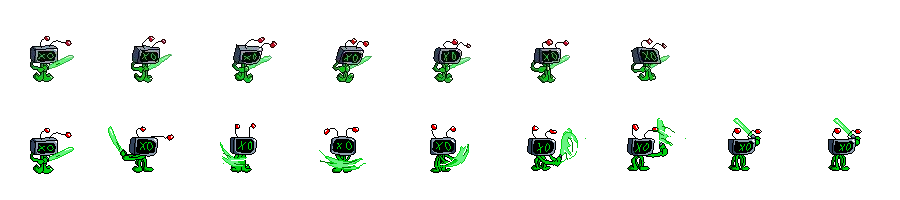
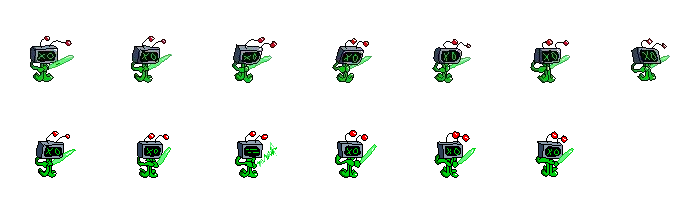
Arte nuevo: retratos, Titán, Gatoide, ataques de Aeon y Voss, caminatas, casa de tecnología y marcas de clic
- Un PNG por unidad: aeon_thraze, general_voss, francotirador, soldado_asalto,
  exo_traje_pesado (+caminando), centinela_plasma (nuevo ataque), gatoide_infectado
- titan_de_la_jungla-sheet.png (cuadros de 120x120)
- casa_tecnologia-sheet.png = Depósito de Suministros de la Coalición
- Retratos animados: Dron Constructor, Centinela, Coloso, Manipuladora
- clic_atacar.png (espada) y clic_minar.png (pico) como marcas de orden
- El neutral Depredador Veloz pasa a llamarse Gatoide Infectado

Claude-Session: https://claude.ai/code/session_016Amkj2r8VTxdDaFmM66iK8

diff --git a/juego/Aethelgard.html b/juego/Aethelgard.html
@@ -878,13 +878,14 @@ function rutaMusica(f){return rutaCon(RUTA_MUSICA,f);}
 
 const ARTE_UNIDADES={
   // — Dominio Kaelen (jugador) —
-  heroe:         {idle:{sheet:"paladin_alien-sheet.png",count:6,fps:7,drawW:100,offY:25,offX:8},
-                  walk:{sheet:"paladin_alien_caminando.png",count:9,fps:11,drawW:100,offY:19,offX:8}},   // Aeon Thraze (héroe)
+  heroe:         {idle:  {sheet:"aeon_thraze-sheet.png",fila:0,count:6,frameW:100,frameH:100,fps:7,drawW:100,offY:25,offX:8},
+                  walk:  {sheet:"aeon_thraze-sheet.png",fila:1,count:9,frameW:100,frameH:100,fps:11,drawW:100,offY:19,offX:8},
+                  attack:{sheet:"aeon_thraze-sheet.png",fila:2,count:7,frameW:100,frameH:100,fps:14,disparoEn:3,drawW:100,offY:25,offX:9}},   // (filas: quieto · caminando · atacando)   // Aeon Thraze (héroe)
   obrero:        {idle:{sheet:"obrero_png_profe.png",count:5,fps:6,drawW:84,offY:23,offX:-2},
                   work:{sheet:"obrero_trabajando_alien.png",count:10,fps:12,drawW:84,offY:21,offX:-1}},   // Dron Constructor (work = talando / reparando)
   // un PNG por unidad: cada FILA es una animación (fila:0 = la de arriba). frameW/frameH = tamaño de un cuadro.
   soldado:       {idle:  {sheet:"centinela_plasma-sheet.png",fila:0,count:7,frameW:100,frameH:100,fps:8,drawW:70,offY:3,offX:-4},
-                  attack:{sheet:"centinela_plasma-sheet.png",fila:1,count:9,frameW:100,frameH:100,fps:14,disparoEn:4,drawW:70,offY:9,offX:-4}},   // Centinela de Plasma (fila 0 quieto, fila 1 espadazo)
+                  attack:{sheet:"centinela_plasma-sheet.png",fila:1,count:6,frameW:100,frameH:100,fps:14,disparoEn:2,drawW:70,offY:6,offX:-7}},   // Centinela de Plasma (fila 0 quieto, fila 1 espadazo)
   fusilero:      {sheet:"arquero_disparador-sheet.png",count:5,fps:10,drawW:90,offY:19,offX:4},   // Emisor de Pulso (el arquero Kaelen)
   caballero:     {idle:{sheet:"coloso_blindado-sheet.png",fila:0,count:7,frameW:100,frameH:100,fps:6,drawW:76,offY:12,offX:-3},
                   walk:{sheet:"coloso_blindado-sheet.png",fila:1,count:7,frameW:100,frameH:100,fps:10,drawW:76,offY:11,offX:-2}}, // Coloso Blindado (fila 0 quieto, fila 1 caminando)
@@ -896,16 +897,20 @@ const ARTE_UNIDADES={
                   habilidad:{sheet:"manipuladora_cuantica-sheet.png",fila:2,count:5,frameW:100,frameH:100,fps:9,drawW:75,offY:14,offX:3}}, // Manipuladora Cuántica (filas: quieta · caminando · haciendo magia)
   rompehechizos: "",   // Disruptor de Escudos
   // — Coalición Terrestre (IA) —
-  heroe_enemigo:     {sheet:"astronauta_paladin-sheet.png",count:7,fps:7,drawW:96,offY:16,offX:6},   // General Voss (antes era el dibujo del Exo-traje Pesado)
+  heroe_enemigo:     {idle:  {sheet:"general_voss-sheet.png",fila:0,count:7,frameW:100,frameH:100,fps:7,drawW:96,offY:16,offX:6},
+                      attack:{sheet:"general_voss-sheet.png",fila:1,count:8,frameW:100,frameH:100,fps:14,disparoEn:4,drawW:96,offY:18,offX:8}},   // (filas: quieto · disparando)   // General Voss (antes era el dibujo del Exo-traje Pesado)
   obrero_enemigo:    {idle:{sheet:"ingeniero_campo-sheet.png",fila:0,count:3,frameW:100,frameH:100,cuadros:[0],drawW:72,offY:13,offX:4},
                       work:{sheet:"ingeniero_campo-sheet.png",fila:0,count:3,frameW:100,frameH:100,fps:6,drawW:72,offY:13,offX:4},
                       walk:{sheet:"ingeniero_campo-sheet.png",fila:1,count:8,frameW:100,frameH:100,fps:11,drawW:72,offY:13,offX:4},
                       taladro:{sheet:"ingeniero_campo-sheet.png",fila:2,count:5,frameW:100,frameH:100,fps:10,drawW:72,offY:12,offX:9}},   // Ingeniero de Campo (filas: picando/construyendo · caminando · taladrando metal)
-  enemigo_bruto:     {sheet:"astronata_combate-sheet.png",count:4,fps:6,drawW:75,offY:13,offX:-3},   // Soldado de Asalto
-  enemigo_cazador:   {idle:  {sheet:"arquero_disparando_en_png_astronauta.png",count:14,cuadros:[0],drawW:80,offY:15,offX:4},
-                      attack:{sheet:"arquero_disparando_en_png_astronauta.png",count:14,fps:16,disparoEn:7,drawW:80,offY:15,offX:4}}, // Francotirador
+  enemigo_bruto:     {idle:{sheet:"soldado_asalto-sheet.png",fila:0,count:4,frameW:100,frameH:100,fps:6,drawW:75,offY:13,offX:-3},
+                      walk:{sheet:"soldado_asalto-sheet.png",fila:1,count:15,frameW:100,frameH:100,fps:18,drawW:75,offY:12,offX:-3}},   // (filas: quieto · caminando)   // Soldado de Asalto
+  enemigo_cazador:   {idle:  {sheet:"francotirador-sheet.png",fila:0,count:14,frameW:100,frameH:100,cuadros:[0],drawW:80,offY:15,offX:4},
+                      walk:  {sheet:"francotirador-sheet.png",fila:1,count:9,frameW:100,frameH:100,fps:12,drawW:80,offY:19,offX:2},
+                      attack:{sheet:"francotirador-sheet.png",fila:0,count:14,frameW:100,frameH:100,fps:16,disparoEn:7,drawW:80,offY:15,offX:4}}, // Francotirador (filas: disparando · caminando)
   enemigo_trol:      {idle:  {sheet:"exo_traje_pesado-sheet.png",fila:0,count:6,frameW:100,frameH:100,fps:6,drawW:90,offY:19,offX:5},
-                      attack:{sheet:"exo_traje_pesado-sheet.png",fila:1,count:11,frameW:100,frameH:100,fps:15,disparoEn:8,drawW:73,offY:4,offX:-15}},  // Exo-traje Pesado (fila 0 quieto, fila 1 martillazo)
+                      attack:{sheet:"exo_traje_pesado-sheet.png",fila:1,count:11,frameW:100,frameH:100,fps:15,disparoEn:8,drawW:73,offY:4,offX:-15},
+                      walk:  {sheet:"exo_traje_pesado-sheet.png",fila:2,count:13,frameW:100,frameH:100,fps:14,drawW:90,offY:18,offX:9}},  // Exo-traje Pesado (fila 0 quieto, fila 1 martillazo)
   enemigo_mago:      {sheet:"hacker_combate-sheet.png",count:8,fps:7,drawW:72,offY:13,offX:4},   // Hacker de Combate (el mago humano astronauta)
   enemigo_bestia:    "",   // Tanque Blindado
   enemigo_asesino:   {idle:  {sheet:"comando_elite-sheet.png",fila:0,count:4,frameW:100,frameH:100,fps:6,drawW:72,offY:15,offX:6},
@@ -919,11 +924,13 @@ const ARTE_UNIDADES={
   jabali:    {idle:  {sheet:"reptante_infectado-sheet.png",fila:0,count:5,frameW:100,frameH:100,fps:6,drawW:72,offY:14,offX:3},
               walk:  {sheet:"reptante_infectado-sheet.png",fila:1,count:7,frameW:100,frameH:100,fps:10,drawW:72,offY:15,offX:-1},
               attack:{sheet:"reptante_infectado-sheet.png",fila:2,count:7,frameW:100,frameH:100,fps:14,disparoEn:3,drawW:72,offY:16,offX:2}},   // Reptante Infectado (filas: quieto · caminando · atacando)
-  lobo:      "",   // Depredador Veloz
+  lobo:      {idle:  {sheet:"gatoide_infectado-sheet.png",fila:0,count:4,frameW:100,frameH:100,fps:6,drawW:72,offY:8,offX:0},
+              walk:  {sheet:"gatoide_infectado-sheet.png",fila:1,count:6,frameW:100,frameH:100,fps:14,drawW:72,offY:8,offX:1},
+              attack:{sheet:"gatoide_infectado-sheet.png",fila:2,count:8,frameW:100,frameH:100,fps:16,disparoEn:4,drawW:72,offY:10,offX:2}},   // Gatoide Infectado (filas: quieto · corriendo · atacando)
   oso:       {idle:  {sheet:"slime_blindado-sheet.png",fila:0,count:4,frameW:100,frameH:100,fps:6,drawW:90,offY:9,offX:-1},
               walk:  {sheet:"slime_blindado-sheet.png",fila:1,count:4,frameW:100,frameH:100,fps:8,drawW:90,offY:10,offX:-5},
               attack:{sheet:"slime_blindado-sheet.png",fila:2,count:6,frameW:100,frameH:100,fps:12,disparoEn:3,drawW:90,offY:10,offX:-2}},   // Slime Blindado (filas: quieto · caminando · atacando)
-  ogro_jefe: "",   // Titán de la Jungla (mini-jefe)
+  ogro_jefe: {sheet:"titan_de_la_jungla-sheet.png",count:4,frameW:120,frameH:120,fps:5,drawW:150,offY:30,offX:-1},   // Titán de la Jungla (mini-jefe; cuadros de 120×120)
 };
 
 // Edificios: se apoyan sobre su huella. drawW por defecto = ancho de la huella.
@@ -941,7 +948,7 @@ const ARTE_ESTRUCTURAS={
   base_enemigo:     "",   // Cuartel General
   barracks_enemigo: {sheet:"castillo_para_paladines.png",count:10,fps:8,drawW:255,offY:79,offX:11},  // Academia Militar
   tower_enemigo:    "",   // Torreta de Defensa
-  farm_enemigo:     "",   // Depósito de Suministros
+  farm_enemigo:     {sheet:"casa_tecnologia-sheet.png",count:2,fps:2,drawW:112,offY:11,offX:11},   // Depósito de Suministros (la casa de tecnología, con las luces que parpadean)
   forge_enemigo:    {sheet:"fabrica_armamento-sheet.png",count:3,fps:3,drawW:209,offY:43,offX:2}, // Fábrica de Armamento (la forja de ladrillo)
   // sin usar por ahora: casa_de_jipies_magos_png_67.png (la casa verde de los magos), robot_malo.png
 };
@@ -1016,7 +1023,8 @@ const ARTE_INTERFAZ={
   clic_mover:      {sheet:"lugar_donde_ira_la_unidad.png",count:3,cuadros:[0,1,2,1],fps:10,repetir:3,drawW:125,offY:-7},   // marca en el suelo al dar una orden de mover (como las flechas verdes de WC3).
                          //   repetir:N = la tira se repite N veces (la última se desvanece). cuadros = orden de los cuadros.
                          //   Si es una tira, se reproduce UNA vez y desaparece. Ej.: {sheet:"clic-sheet.png",count:6,fps:15,drawW:48}
-  clic_atacar:     "",   // igual, para la orden de atacar (si queda vacío, usa clic_mover)
+  clic_atacar:     {sheet:"clic_atacar.png",count:3,cuadros:[0,1,2,1],fps:10,repetir:3,drawW:110,offY:-18},   // "aquí puedes atacar": la espada
+  clic_recolectar: {sheet:"clic_minar.png",count:3,cuadros:[0,1,2,1],fps:10,repetir:3,drawW:110,offY:-18},    // "selecciona dónde minarás": el pico (minas y rocas)
 };
 
 // ── PROYECTILES ── (lo que vuela desde la unidad que dispara hasta su objetivo)
@@ -1105,8 +1113,11 @@ const HUD_ZONAS={
 // Las tarjetas del grupo (cuando eliges varias unidades) usan el primer cuadro.
 const ARTE_RETRATOS={
   // ── Dominio Kaelen (tus unidades) ──
-  "Aeon Thraze":"", "Dron Constructor":"", "Centinela de Plasma":"", "Emisor de Pulso":"",
-  "Coloso Blindado":"", "Unidad de Nanoreparación":"", "Manipuladora Cuántica":"", "Disruptor de Escudos":"",
+  "Aeon Thraze":"", "Emisor de Pulso":"", "Unidad de Nanoreparación":"", "Disruptor de Escudos":"",
+  "Dron Constructor":     {sheet:"retrato_dron_constructor-sheet.png",count:4,fps:5},
+  "Centinela de Plasma":  {sheet:"retrato_centinela_plasma-sheet.png",count:4,fps:5},
+  "Coloso Blindado":      {sheet:"retrato_coloso_blindado-sheet.png",count:13,fps:9},
+  "Manipuladora Cuántica":{sheet:"retrato_manipuladora_cuantica-sheet.png",count:3,fps:4},
   // ── Dominio Kaelen (tus estructuras) ──
   "Núcleo Central":"", "Forja de Autómatas":"", "Cámara de Reconstrucción":"", "Extractor de Energía":"",
   "Laboratorio de Armamento":"", "Torreta de Plasma":"", "Generador de Soporte Vital":"", "Portal Dimensional":"",
@@ -1116,7 +1127,7 @@ const ARTE_RETRATOS={
   // ── Coalición Terrestre (estructuras de la IA) ──
   "Cuartel General":"", "Academia Militar":"", "Fábrica de Armamento":"", "Torreta de Defensa":"", "Depósito de Suministros":"",
   // ── Neutrales ──
-  "Reptante Infectado":"", "Depredador Veloz":"", "Slime Blindado":"", "Titán de la Jungla":"",
+  "Reptante Infectado":"", "Gatoide Infectado":"", "Slime Blindado":"", "Titán de la Jungla":"",
   "Puesto del Mercader Errante":"",
 };
 // ── MÚSICA ── (archivos .mp3/.ogg/.wav en la misma carpeta que este HTML)
@@ -1203,7 +1214,7 @@ const ENCICLOPEDIA_TEXTOS={
   "Depósito de Suministros":"Le permite a la Coalición tener más tropas.",
   "Fábrica de Armamento":"Investiga el armamento mejorado de la Coalición.",
   "Reptante Infectado":"Criatura nativa contaminada por la infección: ataca a todo lo que entra en su territorio.",
-  "Depredador Veloz":"Caza en manada y ataca rápido.",
+  "Gatoide Infectado":"Un felino del planeta deformado por la infección: rapidísimo, caza en manada y salta sobre su presa.",
   "Slime Blindado":"Un slime metido dentro de una armadura vieja: lento, pero con un caparazón muy duro.",
   "Titán de la Jungla":"El mini-jefe del centro del mapa. Suelta muy buen botín.",
   "Puesto del Mercader Errante":"La tienda neutral del centro: aquí el héroe compra y vende objetos.",
@@ -3566,6 +3577,7 @@ function spawnDamageText(x,y,dmg,isHero){
 }
 
 // Marca en el suelo al dar una orden. tipo = "mover" o "atacar".
+function arteDePing(p){return (p.tipo==="atacar"&&ARTE_INTERFAZ.clic_atacar)||(p.tipo==="recolectar"&&ARTE_INTERFAZ.clic_recolectar)||ARTE_INTERFAZ.clic_mover;}
 function spawnPing(x,y,tipo){
   const p=worldToIso(x,y);
   pingMarkers.push({x:p.x,y:p.y,r:0,life:1,tipo:tipo||"mover",t0:performance.now()});
@@ -3688,7 +3700,7 @@ function updateParticles(dt){
     const p=pingMarkers[i];
     p.r+=1.2;
     // con PNG la marca dura lo que dura su tira; sin PNG, el anillo se desvanece
-    const conArte=(p.tipo==="atacar"&&ARTE_INTERFAZ.clic_atacar)||ARTE_INTERFAZ.clic_mover;
+    const conArte=arteDePing(p);
     if(!conArte||!imgLista(getAnimImg(typeof conArte==="string"?conArte:conArte.sheet)))p.life-=0.04;
     if(p.life<=0||performance.now()-p.t0>4000)pingMarkers.splice(i,1);
   }
@@ -3740,7 +3752,7 @@ function drawParticles(){
   }
   ctx.globalAlpha=1;
   for(const p of pingMarkers){
-    const arte=(p.tipo==="atacar"&&ARTE_INTERFAZ.clic_atacar)||ARTE_INTERFAZ.clic_mover;
+    const arte=arteDePing(p);
     const fr=frameUnaVez(arte,p.t0);
     if(fr&&fr.terminado){p.life=0;continue;}
     if(fr){ctx.globalAlpha=fr.alpha;drawAnimFrame(fr,p.x,p.y+fr.offY,fr.drawW||48,0.5);ctx.globalAlpha=1;continue;}
@@ -3842,7 +3854,7 @@ const aiWorkers=[];
 // centro del campamento, con mucha más vida y mejor botín al morir.
 const NEUTRAL_TYPES={
   jabali:{name:"Reptante Infectado",  hp:80, damage:9, speed:1.6,radius:12,aggro:170,leash:260,cooldown:55,goldReward:15,icon:"🐗",sprite:"jabali",shape:"hex"},
-  lobo:  {name:"Depredador Veloz", hp:55, damage:12,speed:2.3,radius:11,aggro:210,leash:280,cooldown:40,goldReward:18,icon:"🐺",sprite:"lobo",  shape:"hex"},
+  lobo:  {name:"Gatoide Infectado", hp:55, damage:12,speed:2.3,radius:11,aggro:210,leash:280,cooldown:40,goldReward:18,icon:"🐈",sprite:"lobo",  shape:"hex"},
   oso:   {name:"Slime Blindado",  hp:170,damage:17,speed:1.3,radius:15,aggro:150,leash:220,cooldown:65,goldReward:28,icon:"🐻",sprite:"oso",   shape:"hex"},
 };
 const MINIBOSS_TYPES={
@@ -5141,7 +5153,7 @@ function snapBuildPos(centerX,centerY,size){
 }
 
 // ═══════════════ UI FUNCTIONS ═══════════════
-const PORTRAITS={"Aeon Thraze":"👑","Dron Constructor":"⛏","Centinela de Plasma":"⚡","Emisor de Pulso":"🔫","Coloso Blindado":"🛡","Núcleo Central":"🏰","Forja de Autómatas":"⚔","Cámara de Reconstrucción":"🌟","Extractor de Energía":"🔩","Laboratorio de Armamento":"🔨","Torreta de Plasma":"🗼","Generador de Soporte Vital":"🌾","Cuartel General":"💀","Academia Militar":"☠","Torreta de Defensa":"🗼","Depósito de Suministros":"🌾","Fábrica de Armamento":"🔨","Portal Dimensional":"🔮","Unidad de Nanoreparación":"🔧","Manipuladora Cuántica":"⚛","Disruptor de Escudos":"🌀","General Voss":"⚔","Reptante Infectado":"🐗","Depredador Veloz":"🐺","Slime Blindado":"🐻","Titán de la Jungla":"👹","Puesto del Mercader Errante":"🛒"};
+const PORTRAITS={"Aeon Thraze":"👑","Dron Constructor":"⛏","Centinela de Plasma":"⚡","Emisor de Pulso":"🔫","Coloso Blindado":"🛡","Núcleo Central":"🏰","Forja de Autómatas":"⚔","Cámara de Reconstrucción":"🌟","Extractor de Energía":"🔩","Laboratorio de Armamento":"🔨","Torreta de Plasma":"🗼","Generador de Soporte Vital":"🌾","Cuartel General":"💀","Academia Militar":"☠","Torreta de Defensa":"🗼","Depósito de Suministros":"🌾","Fábrica de Armamento":"🔨","Portal Dimensional":"🔮","Unidad de Nanoreparación":"🔧","Manipuladora Cuántica":"⚛","Disruptor de Escudos":"🌀","General Voss":"⚔","Reptante Infectado":"🐗","Gatoide Infectado":"🐺","Slime Blindado":"🐻","Titán de la Jungla":"👹","Puesto del Mercader Errante":"🛒"};
 
 function renderQueue(str){queueBox.innerHTML="";if(!str.queue||str.queue.length===0)return;str.queue.forEach((item,i)=>{let sl=document.createElement("div");sl.className="queue-slot";sl.textContent=item.name;sl.onclick=ev=>{ev.stopPropagation();cancelQueueItem(str,i);};queueBox.appendChild(sl);});}
 function cancelQueueItem(str,i){let c=str.queue.splice(i,1)[0];gold+=c.goldCost||0;lumber+=c.lumberCost||0;if(i===0)str.trainingProgress=0;updateBottomUI();}
@@ -5655,8 +5667,13 @@ canvas.addEventListener("contextmenu",e=>{
       return;
     }
   }
-  // ping
-  spawnPing(world.x,world.y);
+  // ping: con obreros sobre una mina o roca sale el pico ("selecciona dónde minarás")
+  {
+    const obreros=selectedUnits.some(u=>u.type==="worker");
+    const roca=obreros&&trees.find(t=>world.x>t.x&&world.x<t.x+40&&world.y>t.y&&world.y<t.y+40);
+    const mina=obreros&&!roca&&mines.find(m=>Math.hypot(world.x-m.x,world.y-m.y)<m.size+50);
+    if(roca)spawnPing(roca.x+20,roca.y+20,"recolectar");else if(mina)spawnPing(mina.x,mina.y,"recolectar");else spawnPing(world.x,world.y);
+  }
   let clickedStr=structures.find(s=>world.x>s.x&&world.x<s.x+s.size&&world.y>s.y&&world.y<s.y+s.size);
   // separamos quiénes van a moverse en formación de quienes tienen una orden
   // específica (talar/minar/construir) — la formación solo aplica al primer grupo
